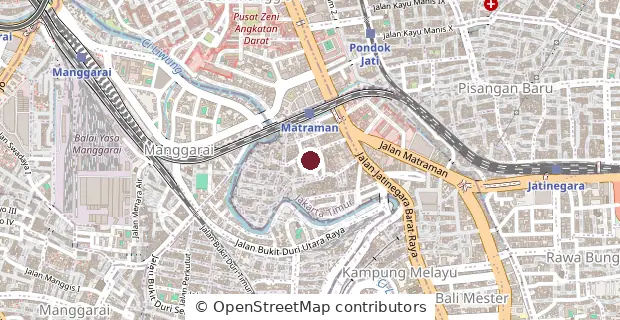
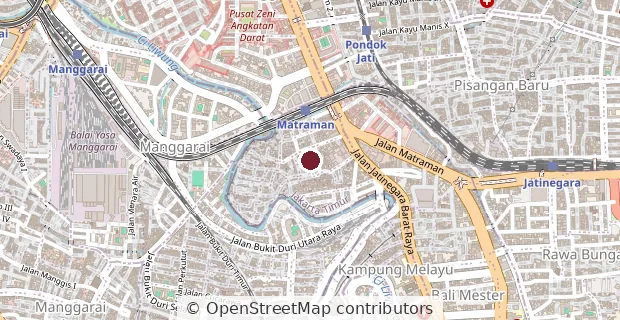
Point the address to Perpustakaan Bahagia and show it on Kontak
Claude-Session: https://claude.ai/code/session_01Au7NhbF8RrMBMB34ry2cnH

diff --git a/kontak.html b/kontak.html
@@ -124,6 +124,13 @@
         </span>
         <span aria-hidden="true">&nearrow;</span>
        </a>
+      <a href="https://maps.app.goo.gl/gG592uiAkKb6r6RB8" target="_blank" rel="noopener noreferrer">
+        <span>
+         <strong>Alamat</strong>
+         <small>Perpustakaan Bahagia, Jl. Kebon Pala I No. 34, RT 9/RW 5, Kampung Melayu, Jatinegara, Jakarta Timur 13320</small>
+        </span>
+        <span aria-hidden="true">&nearrow;</span>
+       </a>
       </div>
      </div>
     </section>
@@ -166,9 +173,9 @@
         <div class="footer-col footer-location-col">
           <h3>Temukan Kami</h3>
           <div class="footer-map-preview" aria-hidden="true">
-            <img src="img/footer-map.webp" alt="Peta lokasi Kita Bahagia di Kantor Kelurahan Kampung Melayu, Jakarta" width="620" height="320" loading="lazy" decoding="async">
+            <img src="img/footer-map.webp" alt="Peta lokasi Kita Bahagia di Perpustakaan Bahagia, Kampung Melayu, Jakarta Timur" width="620" height="320" loading="lazy" decoding="async">
           </div>
-          <a class="footer-map-link" href="https://maps.app.goo.gl/FYecpCb8kT5rTYjG9" target="_blank" rel="noopener noreferrer">Lihat di peta <span aria-hidden="true">&rarr;</span></a>
+          <a class="footer-map-link" href="https://maps.app.goo.gl/gG592uiAkKb6r6RB8" target="_blank" rel="noopener noreferrer">Lihat di peta <span aria-hidden="true">&rarr;</span></a>
         </div>
       </div>
     </div>

diff --git a/kisah-detail.html b/kisah-detail.html
@@ -103,8 +103,8 @@
         </div>
         <div class="footer-col footer-location-col">
           <h3>Temukan Kami</h3>
-          <div class="footer-map-preview" aria-hidden="true"><img src="img/footer-map.webp" alt="Peta lokasi Kita Bahagia di Kantor Kelurahan Kampung Melayu, Jakarta" width="620" height="320" loading="lazy" decoding="async"></div>
-          <a class="footer-map-link" href="https://maps.app.goo.gl/FYecpCb8kT5rTYjG9" target="_blank" rel="noopener noreferrer">Lihat di peta <span aria-hidden="true">→</span></a>
+          <div class="footer-map-preview" aria-hidden="true"><img src="img/footer-map.webp" alt="Peta lokasi Kita Bahagia di Perpustakaan Bahagia, Kampung Melayu, Jakarta Timur" width="620" height="320" loading="lazy" decoding="async"></div>
+          <a class="footer-map-link" href="https://maps.app.goo.gl/gG592uiAkKb6r6RB8" target="_blank" rel="noopener noreferrer">Lihat di peta <span aria-hidden="true">→</span></a>
         </div>
       </div>
     </div>

diff --git a/jadwal.html b/jadwal.html
@@ -109,9 +109,9 @@
         <div class="footer-col footer-location-col">
           <h3>Temukan Kami</h3>
           <div class="footer-map-preview" aria-hidden="true">
-            <img src="img/footer-map.webp" alt="Peta lokasi Kita Bahagia di Kantor Kelurahan Kampung Melayu, Jakarta" width="620" height="320" loading="lazy" decoding="async">
+            <img src="img/footer-map.webp" alt="Peta lokasi Kita Bahagia di Perpustakaan Bahagia, Kampung Melayu, Jakarta Timur" width="620" height="320" loading="lazy" decoding="async">
           </div>
-          <a class="footer-map-link" href="https://maps.app.goo.gl/FYecpCb8kT5rTYjG9" target="_blank" rel="noopener noreferrer">Lihat di peta <span aria-hidden="true">&rarr;</span></a>
+          <a class="footer-map-link" href="https://maps.app.goo.gl/gG592uiAkKb6r6RB8" target="_blank" rel="noopener noreferrer">Lihat di peta <span aria-hidden="true">&rarr;</span></a>
         </div>
       </div>
     </div>

diff --git a/kisah.html b/kisah.html
@@ -132,9 +132,9 @@
         <div class="footer-col footer-location-col">
           <h3>Temukan Kami</h3>
           <div class="footer-map-preview" aria-hidden="true">
-            <img src="img/footer-map.webp" alt="Peta lokasi Kita Bahagia di Kantor Kelurahan Kampung Melayu, Jakarta" width="620" height="320" loading="lazy" decoding="async">
+            <img src="img/footer-map.webp" alt="Peta lokasi Kita Bahagia di Perpustakaan Bahagia, Kampung Melayu, Jakarta Timur" width="620" height="320" loading="lazy" decoding="async">
           </div>
-          <a class="footer-map-link" href="https://maps.app.goo.gl/FYecpCb8kT5rTYjG9" target="_blank" rel="noopener noreferrer">Lihat di peta <span aria-hidden="true">&rarr;</span></a>
+          <a class="footer-map-link" href="https://maps.app.goo.gl/gG592uiAkKb6r6RB8" target="_blank" rel="noopener noreferrer">Lihat di peta <span aria-hidden="true">&rarr;</span></a>
         </div>
       </div>
     </div>

diff --git a/kolaborasi.html b/kolaborasi.html
@@ -200,9 +200,9 @@
         <div class="footer-col footer-location-col">
           <h3>Temukan Kami</h3>
           <div class="footer-map-preview" aria-hidden="true">
-            <img src="img/footer-map.webp" alt="Peta lokasi Kita Bahagia di Kantor Kelurahan Kampung Melayu, Jakarta" width="620" height="320" loading="lazy" decoding="async">
+            <img src="img/footer-map.webp" alt="Peta lokasi Kita Bahagia di Perpustakaan Bahagia, Kampung Melayu, Jakarta Timur" width="620" height="320" loading="lazy" decoding="async">
           </div>
-          <a class="footer-map-link" href="https://maps.app.goo.gl/FYecpCb8kT5rTYjG9" target="_blank" rel="noopener noreferrer">Lihat di peta <span aria-hidden="true">&rarr;</span></a>
+          <a class="footer-map-link" href="https://maps.app.goo.gl/gG592uiAkKb6r6RB8" target="_blank" rel="noopener noreferrer">Lihat di peta <span aria-hidden="true">&rarr;</span></a>
         </div>
       </div>
     </div>

diff --git a/pendaftaran.html b/pendaftaran.html
@@ -360,9 +360,9 @@
         <div class="footer-col footer-location-col">
           <h3>Temukan Kami</h3>
           <div class="footer-map-preview" aria-hidden="true">
-            <img src="img/footer-map.webp" alt="Peta lokasi Kita Bahagia di Kantor Kelurahan Kampung Melayu, Jakarta" width="620" height="320" loading="lazy" decoding="async">
+            <img src="img/footer-map.webp" alt="Peta lokasi Kita Bahagia di Perpustakaan Bahagia, Kampung Melayu, Jakarta Timur" width="620" height="320" loading="lazy" decoding="async">
           </div>
-          <a class="footer-map-link" href="https://maps.app.goo.gl/FYecpCb8kT5rTYjG9" target="_blank" rel="noopener noreferrer">Lihat di peta <span aria-hidden="true">&rarr;</span></a>
+          <a class="footer-map-link" href="https://maps.app.goo.gl/gG592uiAkKb6r6RB8" target="_blank" rel="noopener noreferrer">Lihat di peta <span aria-hidden="true">&rarr;</span></a>
         </div>
       </div>
     </div>

diff --git a/program.html b/program.html
@@ -481,9 +481,9 @@
         <div class="footer-col footer-location-col">
           <h3>Temukan Kami</h3>
           <div class="footer-map-preview" aria-hidden="true">
-            <img src="img/footer-map.webp" alt="Peta lokasi Kita Bahagia di Kantor Kelurahan Kampung Melayu, Jakarta" width="620" height="320" loading="lazy" decoding="async">
+            <img src="img/footer-map.webp" alt="Peta lokasi Kita Bahagia di Perpustakaan Bahagia, Kampung Melayu, Jakarta Timur" width="620" height="320" loading="lazy" decoding="async">
           </div>
-          <a class="footer-map-link" href="https://maps.app.goo.gl/FYecpCb8kT5rTYjG9" target="_blank" rel="noopener noreferrer">Lihat di peta <span aria-hidden="true">&rarr;</span></a>
+          <a class="footer-map-link" href="https://maps.app.goo.gl/gG592uiAkKb6r6RB8" target="_blank" rel="noopener noreferrer">Lihat di peta <span aria-hidden="true">&rarr;</span></a>
         </div>
       </div>
     </div>

diff --git a/relawan.html b/relawan.html
@@ -215,9 +215,9 @@
         <div class="footer-col footer-location-col">
           <h3>Temukan Kami</h3>
           <div class="footer-map-preview" aria-hidden="true">
-            <img src="img/footer-map.webp" alt="Peta lokasi Kita Bahagia di Kantor Kelurahan Kampung Melayu, Jakarta" width="620" height="320" loading="lazy" decoding="async">
+            <img src="img/footer-map.webp" alt="Peta lokasi Kita Bahagia di Perpustakaan Bahagia, Kampung Melayu, Jakarta Timur" width="620" height="320" loading="lazy" decoding="async">
           </div>
-          <a class="footer-map-link" href="https://maps.app.goo.gl/FYecpCb8kT5rTYjG9" target="_blank" rel="noopener noreferrer">Lihat di peta <span aria-hidden="true">&rarr;</span></a>
+          <a class="footer-map-link" href="https://maps.app.goo.gl/gG592uiAkKb6r6RB8" target="_blank" rel="noopener noreferrer">Lihat di peta <span aria-hidden="true">&rarr;</span></a>
         </div>
       </div>
     </div>

diff --git a/tentang.html b/tentang.html
@@ -211,9 +211,9 @@
         <div class="footer-col footer-location-col">
           <h3>Temukan Kami</h3>
           <div class="footer-map-preview" aria-hidden="true">
-            <img src="img/footer-map.webp" alt="Peta lokasi Kita Bahagia di Kantor Kelurahan Kampung Melayu, Jakarta" width="620" height="320" loading="lazy" decoding="async">
+            <img src="img/footer-map.webp" alt="Peta lokasi Kita Bahagia di Perpustakaan Bahagia, Kampung Melayu, Jakarta Timur" width="620" height="320" loading="lazy" decoding="async">
           </div>
-          <a class="footer-map-link" href="https://maps.app.goo.gl/FYecpCb8kT5rTYjG9" target="_blank" rel="noopener noreferrer">Lihat di peta <span aria-hidden="true">&rarr;</span></a>
+          <a class="footer-map-link" href="https://maps.app.goo.gl/gG592uiAkKb6r6RB8" target="_blank" rel="noopener noreferrer">Lihat di peta <span aria-hidden="true">&rarr;</span></a>
         </div>
       </div>
     </div>

diff --git a/404.html b/404.html
@@ -104,9 +104,9 @@
         <div class="footer-col footer-location-col">
           <h3>Temukan Kami</h3>
           <div class="footer-map-preview" aria-hidden="true">
-            <img src="img/footer-map.webp" alt="Peta lokasi Kita Bahagia di Kantor Kelurahan Kampung Melayu, Jakarta" width="620" height="320" loading="lazy" decoding="async">
+            <img src="img/footer-map.webp" alt="Peta lokasi Kita Bahagia di Perpustakaan Bahagia, Kampung Melayu, Jakarta Timur" width="620" height="320" loading="lazy" decoding="async">
           </div>
-          <a class="footer-map-link" href="https://maps.app.goo.gl/FYecpCb8kT5rTYjG9" target="_blank" rel="noopener noreferrer">Lihat di peta <span aria-hidden="true">&rarr;</span>
+          <a class="footer-map-link" href="https://maps.app.goo.gl/gG592uiAkKb6r6RB8" target="_blank" rel="noopener noreferrer">Lihat di peta <span aria-hidden="true">&rarr;</span>
 </a>
         </div>
       </div>

diff --git a/cek-status.html b/cek-status.html
@@ -120,9 +120,9 @@
         <div class="footer-col footer-location-col">
           <h3>Temukan Kami</h3>
           <div class="footer-map-preview" aria-hidden="true">
-            <img src="img/footer-map.webp" alt="Peta lokasi Kita Bahagia di Kantor Kelurahan Kampung Melayu, Jakarta" width="620" height="320" loading="lazy" decoding="async">
+            <img src="img/footer-map.webp" alt="Peta lokasi Kita Bahagia di Perpustakaan Bahagia, Kampung Melayu, Jakarta Timur" width="620" height="320" loading="lazy" decoding="async">
           </div>
-          <a class="footer-map-link" href="https://maps.app.goo.gl/FYecpCb8kT5rTYjG9" target="_blank" rel="noopener noreferrer">Lihat di peta <span aria-hidden="true">&rarr;</span>
+          <a class="footer-map-link" href="https://maps.app.goo.gl/gG592uiAkKb6r6RB8" target="_blank" rel="noopener noreferrer">Lihat di peta <span aria-hidden="true">&rarr;</span>
 </a>
         </div>
       </div>

diff --git a/faq.html b/faq.html
@@ -164,9 +164,9 @@
         <div class="footer-col footer-location-col">
           <h3>Temukan Kami</h3>
           <div class="footer-map-preview" aria-hidden="true">
-            <img src="img/footer-map.webp" alt="Peta lokasi Kita Bahagia di Kantor Kelurahan Kampung Melayu, Jakarta" width="620" height="320" loading="lazy" decoding="async">
+            <img src="img/footer-map.webp" alt="Peta lokasi Kita Bahagia di Perpustakaan Bahagia, Kampung Melayu, Jakarta Timur" width="620" height="320" loading="lazy" decoding="async">
           </div>
-          <a class="footer-map-link" href="https://maps.app.goo.gl/FYecpCb8kT5rTYjG9" target="_blank" rel="noopener noreferrer">Lihat di peta <span aria-hidden="true">&rarr;</span>
+          <a class="footer-map-link" href="https://maps.app.goo.gl/gG592uiAkKb6r6RB8" target="_blank" rel="noopener noreferrer">Lihat di peta <span aria-hidden="true">&rarr;</span>
 </a>
         </div>
       </div>
